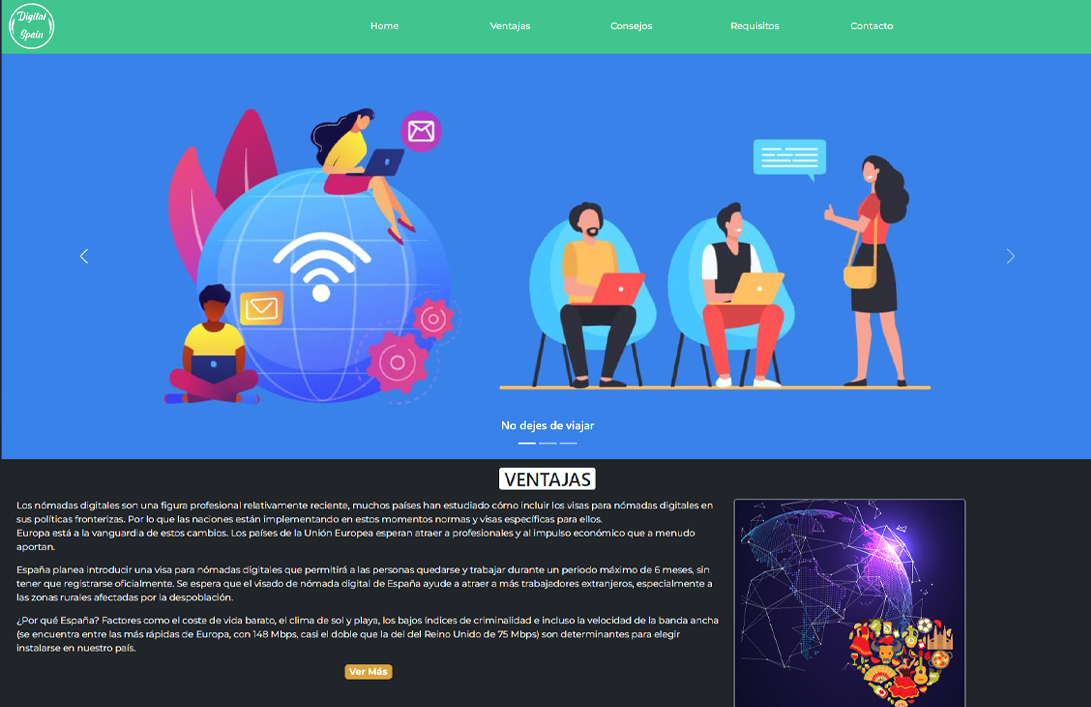
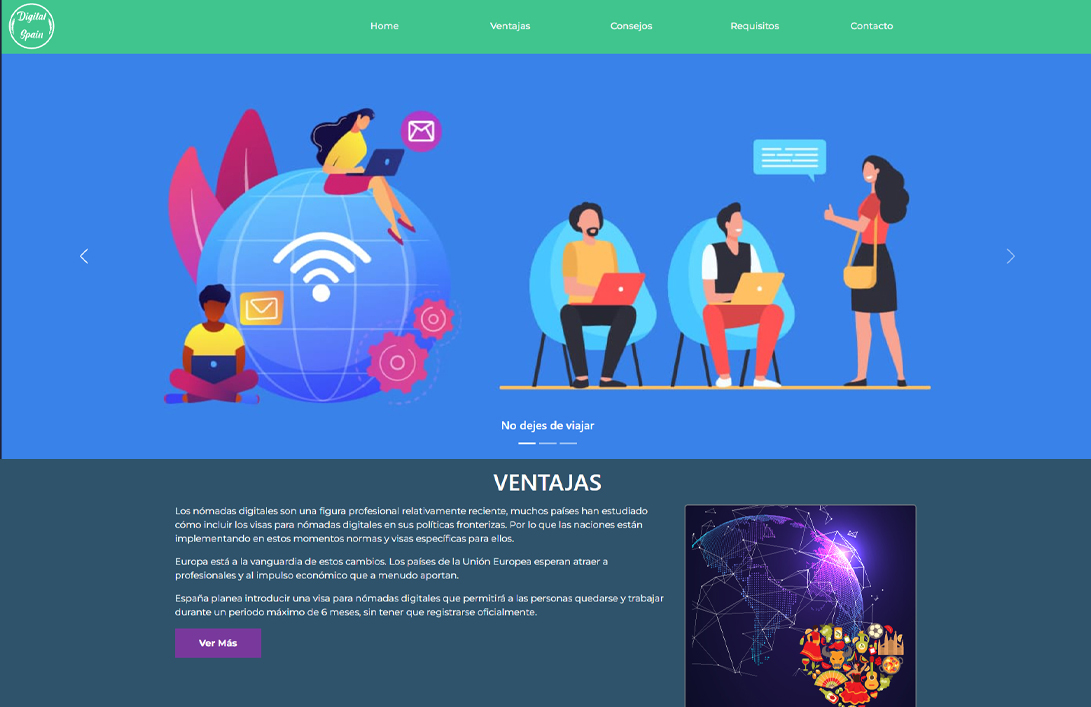
se agrega el footer y cambio de foto de perfil

diff --git a/index.html b/index.html
@@ -6,6 +6,10 @@
     <meta name="viewport" content="width=device-width, initial-scale=1.0" />
     <title>Portfolio Matias Poletto</title>
     <link rel="stylesheet" href="assets/style.css" />
+    <link
+      rel="stylesheet"
+      href="https://fonts.googleapis.com/css2?family=Montserrat:wght@300;500;600;800&display=swap"
+    />
   </head>
   <body>
     <header>
@@ -112,7 +116,7 @@
               <p>Creado a partir de DOM prácticamente sin contenido HTML</p>
               <a
                 target="_blank"
-                href="https://github.com/MatiPole/Portfolio-Matias-Poletto/tree/main/ecommerce-Poletto-Matias"
+                href="https://github.com/MatiPole/Ecommerce-TyM"
                 >Ver Más</a
               >
             </div>
@@ -126,7 +130,7 @@
               <p>Simulación de un sitio informativo creado con Bootstrap</p>
               <a
                 target="_blank"
-                href="https://github.com/MatiPole/Portfolio-Matias-Poletto/tree/main/Sitio-En-Bootstrap-Matias-Poletto"
+                href="https://github.com/MatiPole/Ejemplo-sitio-con-bootstrap-informativo"
                 >Ver Más</a
               >
             </div>
@@ -140,7 +144,7 @@
               <p>Calculadora creada con puro HTML, CSS y JavaScript</p>
               <a
                 target="_blank"
-                href="https://github.com/MatiPole/Portfolio-Matias-Poletto/tree/main/Calculadora"
+                href="https://github.com/MatiPole/Calculadora-en-javascript"
                 >Ver Más</a
               >
             </div>
@@ -166,7 +170,7 @@
           <div>
             <h4>Diseño y Desarollo Web</h4>
             <div class="info-estudios">
-              <h5>Escuela Da Vinci <span>En Curso</span></h5>
+              <h5>Escuela Da Vinci <span class="en-curso">En Curso</span></h5>
               <p>
                 Diseño, maquetación y programación de sitios web responsive y
                 aplicaciones mobile.
@@ -274,7 +278,31 @@
         </form>
       </section>
     </main>
-    <footer></footer>
+    <footer>
+      <div class="info-contacto">
+        <h4>Contacto</h4>
+        <ul>
+          <li>polettomatias@gmail.com</li>
+          <li>(+54)1167140002</li>
+          <li>Buenos Aires, Argentina</li>
+        </ul>
+      </div>
+      <div class="redes">
+        <figure>
+          <a
+            href="https://api.whatsapp.com/send/?phone=5491167140002&text&type=phone_number&app_absent=0"
+            ><img src="assets/img/whatsapp-logo.png" alt="Whatsapp" /></a
+          ><a href="https://github.com/MatiPole"
+            ><img src="assets/img/github-logo.png" alt="GitHub" /></a
+          ><a href="https://www.linkedin.com/in/matias-poletto/"
+            ><img src="assets/img/linkedin-logo.png" alt="LinkedIn"
+          /></a>
+        </figure>
+      </div>
+      <div class="copyright">
+        <small>© 2023 Todos los derechos reservados Matias Poletto</small>
+      </div>
+    </footer>
     <script src="https://cdnjs.cloudflare.com/ajax/libs/jquery/3.2.1/jquery.min.js"></script>
     <script src="assets/js/main.js" defer></script>
     <script src="assets/js/particles.min.js"></script>

diff --git a/assets/style.css b/assets/style.css
@@ -33,7 +33,6 @@
   font-weight: 400;
   src: url("font/montserrat/Montserrat-Regular.ttf") format("truetype");
 }
-@import url("https://fonts.googleapis.com/css2?family=Montserrat:wght@300;500;600;800&display=swap");
 
 :root {
   --dark-navy: #020c1b;
@@ -571,7 +570,6 @@ h4 {
   overflow: hidden;
   position: relative;
   border: 5px solid var(--fucsia);
-  cursor: pointer;
   box-shadow: 0px 0px 20px 6px rgba(204, 59, 132, 0.5);
   -webkit-box-shadow: 0px 0px 20px 6px rgba(204, 59, 132, 0.5);
   -moz-box-shadow: 0px 0px 20px 6px rgba(204, 59, 132, 0.5);
@@ -625,6 +623,7 @@ h4 {
 }
 .card .content a {
   font-family: var(--ff-montserrat);
+  font-weight: 600;
   font-size: 0.8rem;
   color: #ffffff;
   background: var(--fucsia);
@@ -637,7 +636,7 @@ h4 {
   transition: all 0.3s ease-out;
 }
 .card .content a:hover {
-  background: #882356;
+  background: #ce0067;
   color: #fff;
   scale: 1.1;
 }
@@ -703,6 +702,10 @@ h4 {
   margin-left: 5px;
   font-weight: 200;
   width: fit-content;
+}
+
+.en-curso {
+  background-color: var(--fucsia) !important;
 }
 
 .div-estudios p {
@@ -1251,4 +1254,64 @@ label span {
 .aviso {
   font-style: italic;
   color: #999;
+}
+
+/* FOOTER */
+footer {
+  background-color: var(--dark-navy);
+  display: flex;
+  justify-content: space-around;
+  padding-block: 0.5rem 1.5rem;
+}
+
+.info-contacto h4 {
+  color: var(--white);
+  padding: 0 0 0.2rem 0;
+  font-family: var(--ff-montserrat);
+  font-size: 1.5rem;
+}
+.info-contacto li {
+  color: var(--white);
+  font-family: var(--ff-montserrat);
+  font-size: 1rem;
+  font-weight: 300;
+  padding-top: 0.5rem;
+}
+
+.redes,
+.copyright,
+.info-contacto {
+  padding-top: 1rem;
+}
+
+.copyright {
+  color: var(--white);
+  display: flex;
+  align-items: center;
+}
+.redes figure {
+  max-width: 300px;
+  display: flex;
+}
+.redes figure a img {
+  max-width: 100%;
+  height: auto;
+}
+
+.redes figure a {
+  margin-inline: 1rem;
+}
+
+@media (max-width: 768px) {
+  footer {
+    flex-direction: column;
+    align-items: center;
+    row-gap: 1rem;
+  }
+  .copyright {
+    padding-inline: 1rem;
+  }
+  .info-contacto {
+    text-align: center;
+  }
 }
